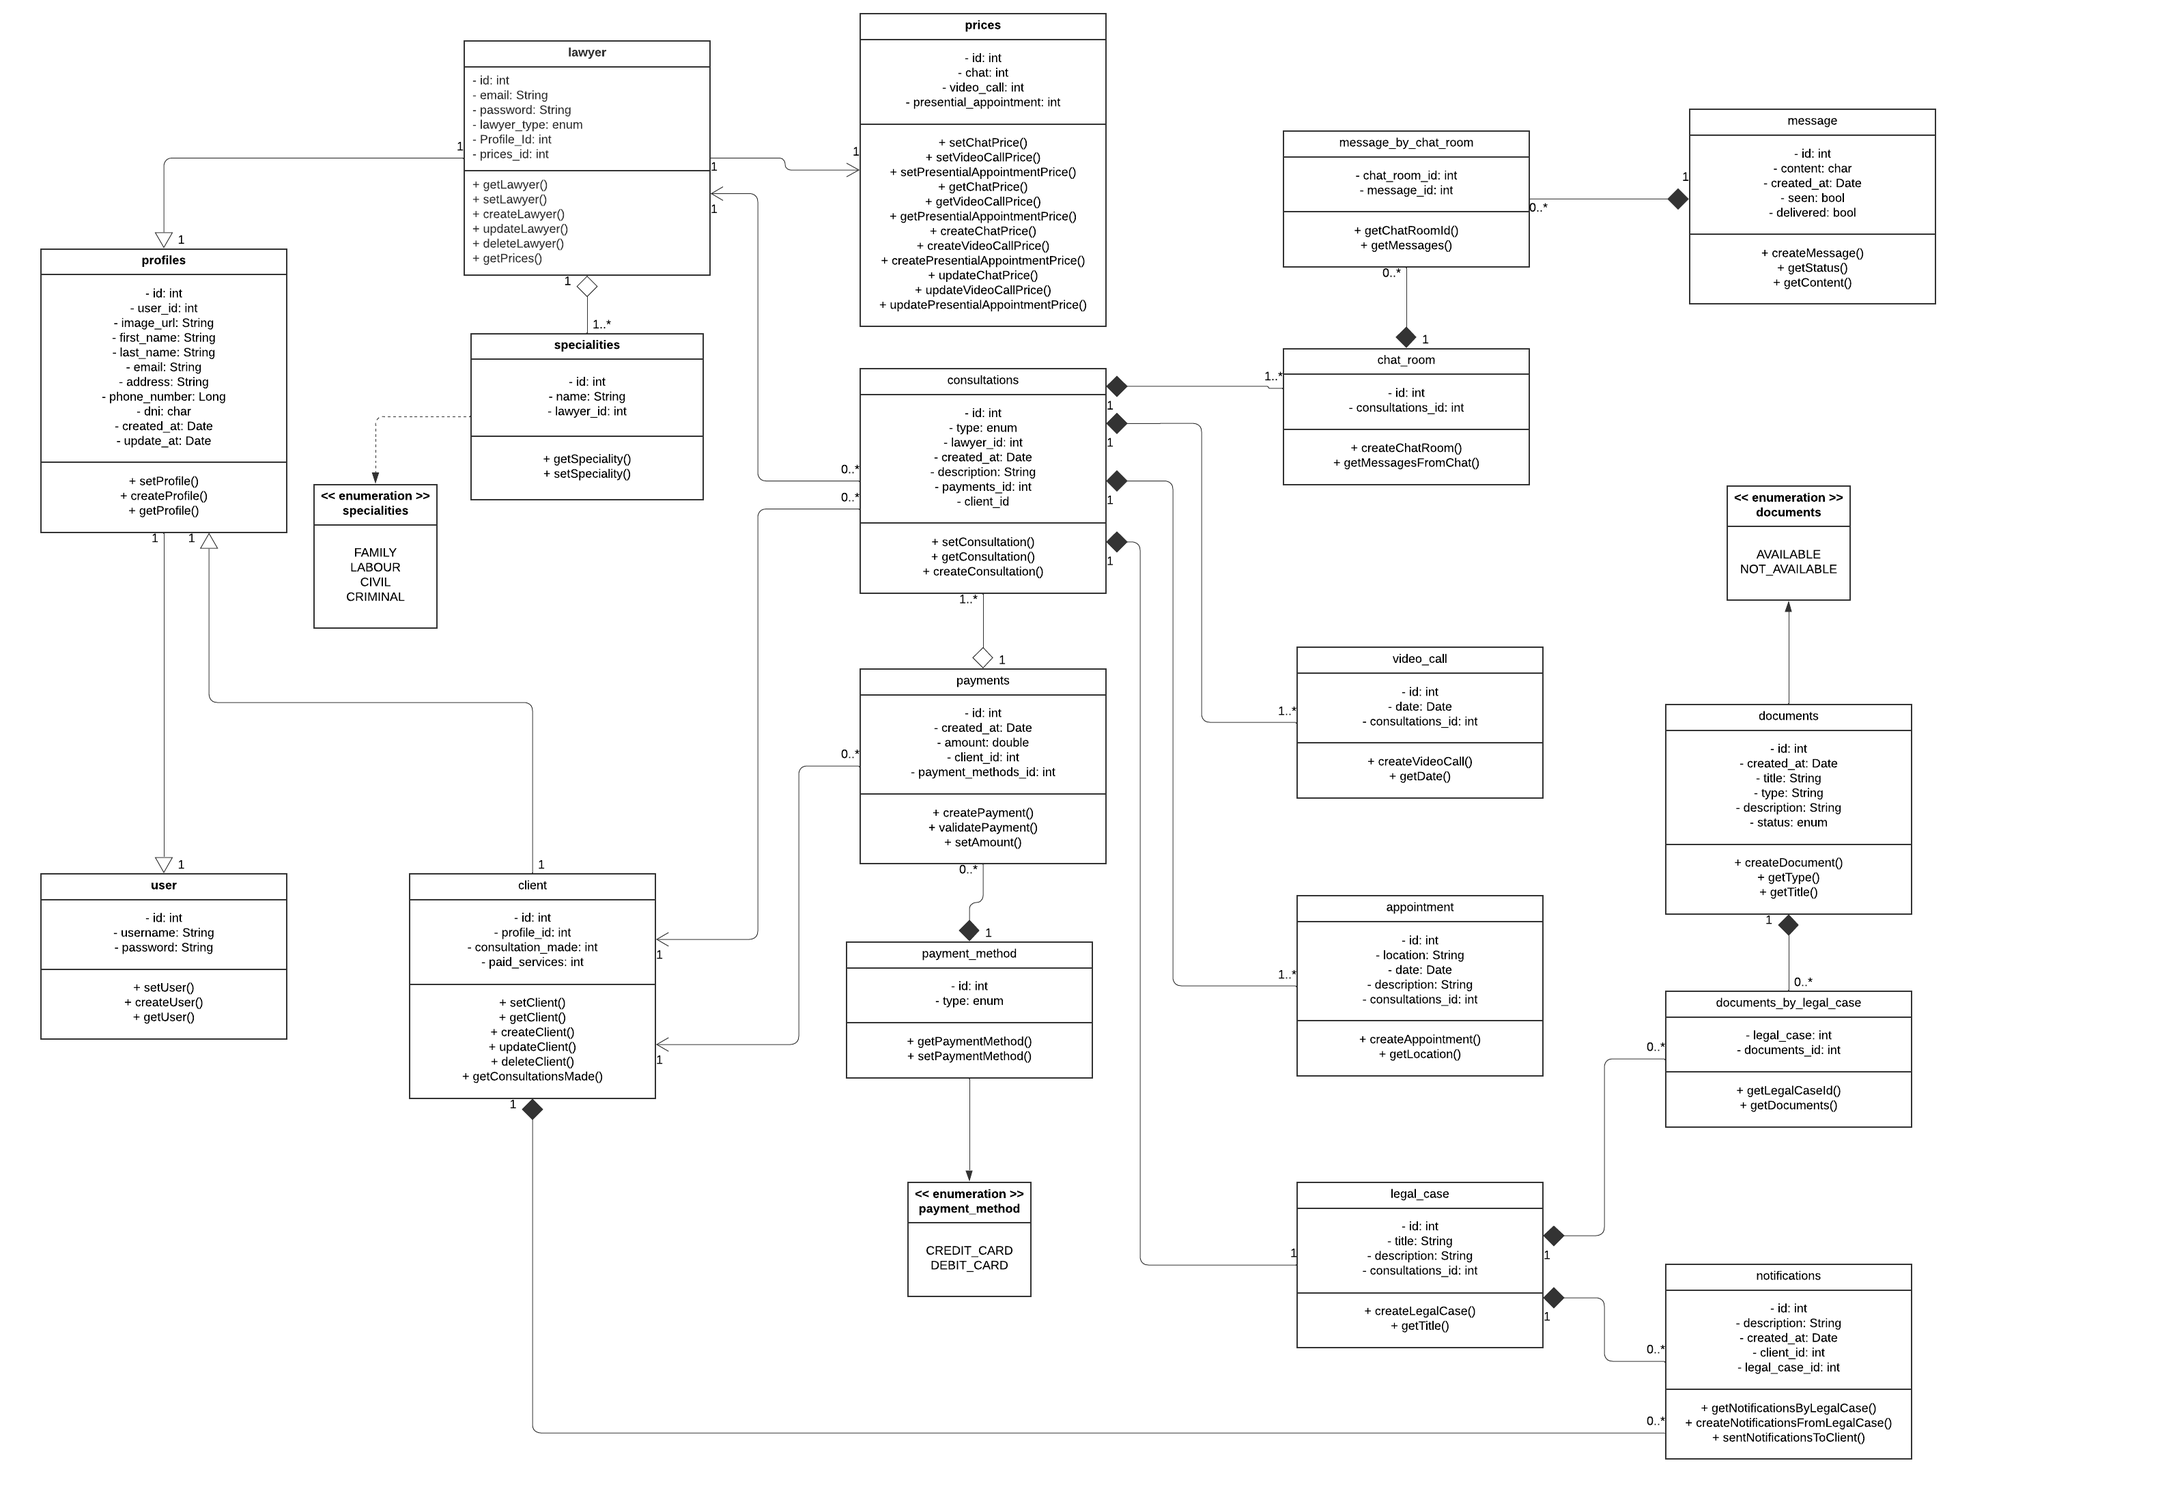
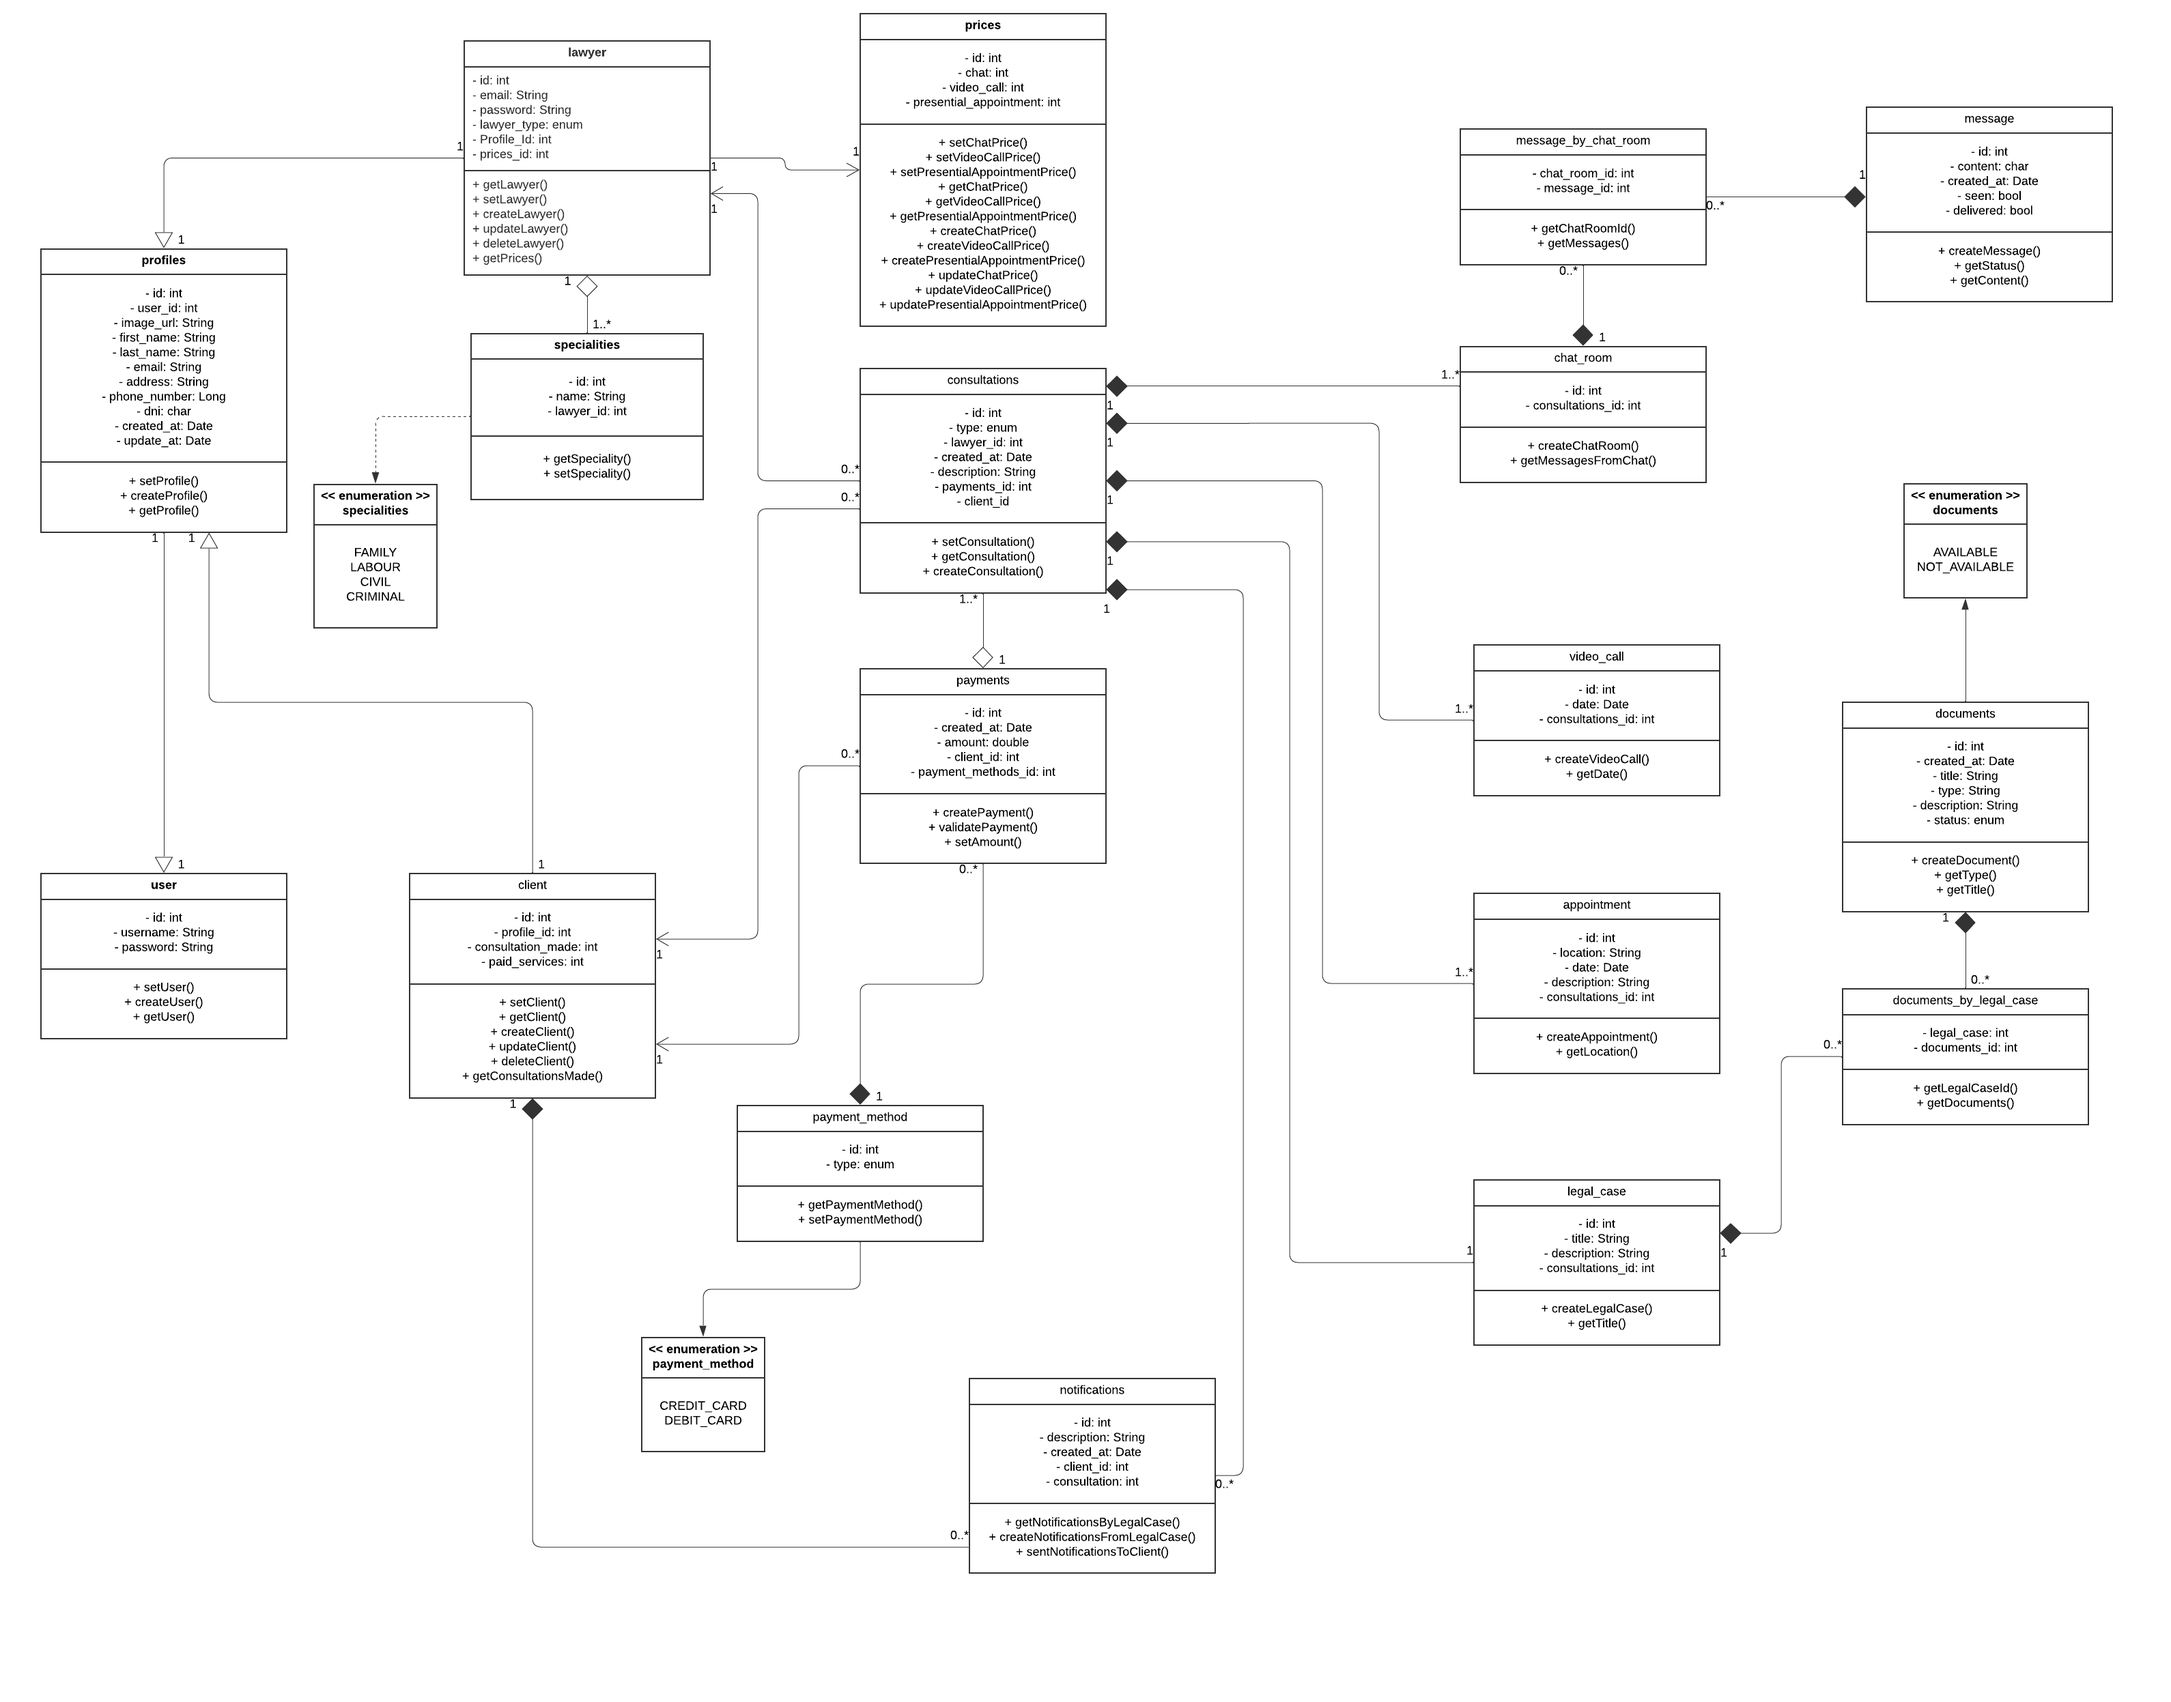
fix(readme): updated the new versions of the class and database diagrams.

diff --git a/README.md b/README.md
@@ -59,6 +59,12 @@
         <td colspan="10">Avellaneda Ramos Carlos Edward, Loli Ramirez Camila Cristina, Condori Lozano Alessandro Ramiro, La Madrid Lozano Ivan Jeanpierre, Pariona Lucas, Jose Manuel</td>
         <td colspan="5">Capítulo V, primer avance de backend</td>
     </tr>
+<tr>
+        <td colspan="3">4ta</td>
+        <td colspan="3">18/11/2024</td>
+        <td colspan="10">Avellaneda Ramos Carlos Edward, Loli Ramirez Camila Cristina, Condori Lozano Alessandro Ramiro, La Madrid Lozano Ivan Jeanpierre, Pariona Lucas, Jose Manuel</td>
+        <td colspan="5">Capítulo V, sprint 4 y versión final del backend con front.</td>
+    </tr>
 </table>
 
 ---
